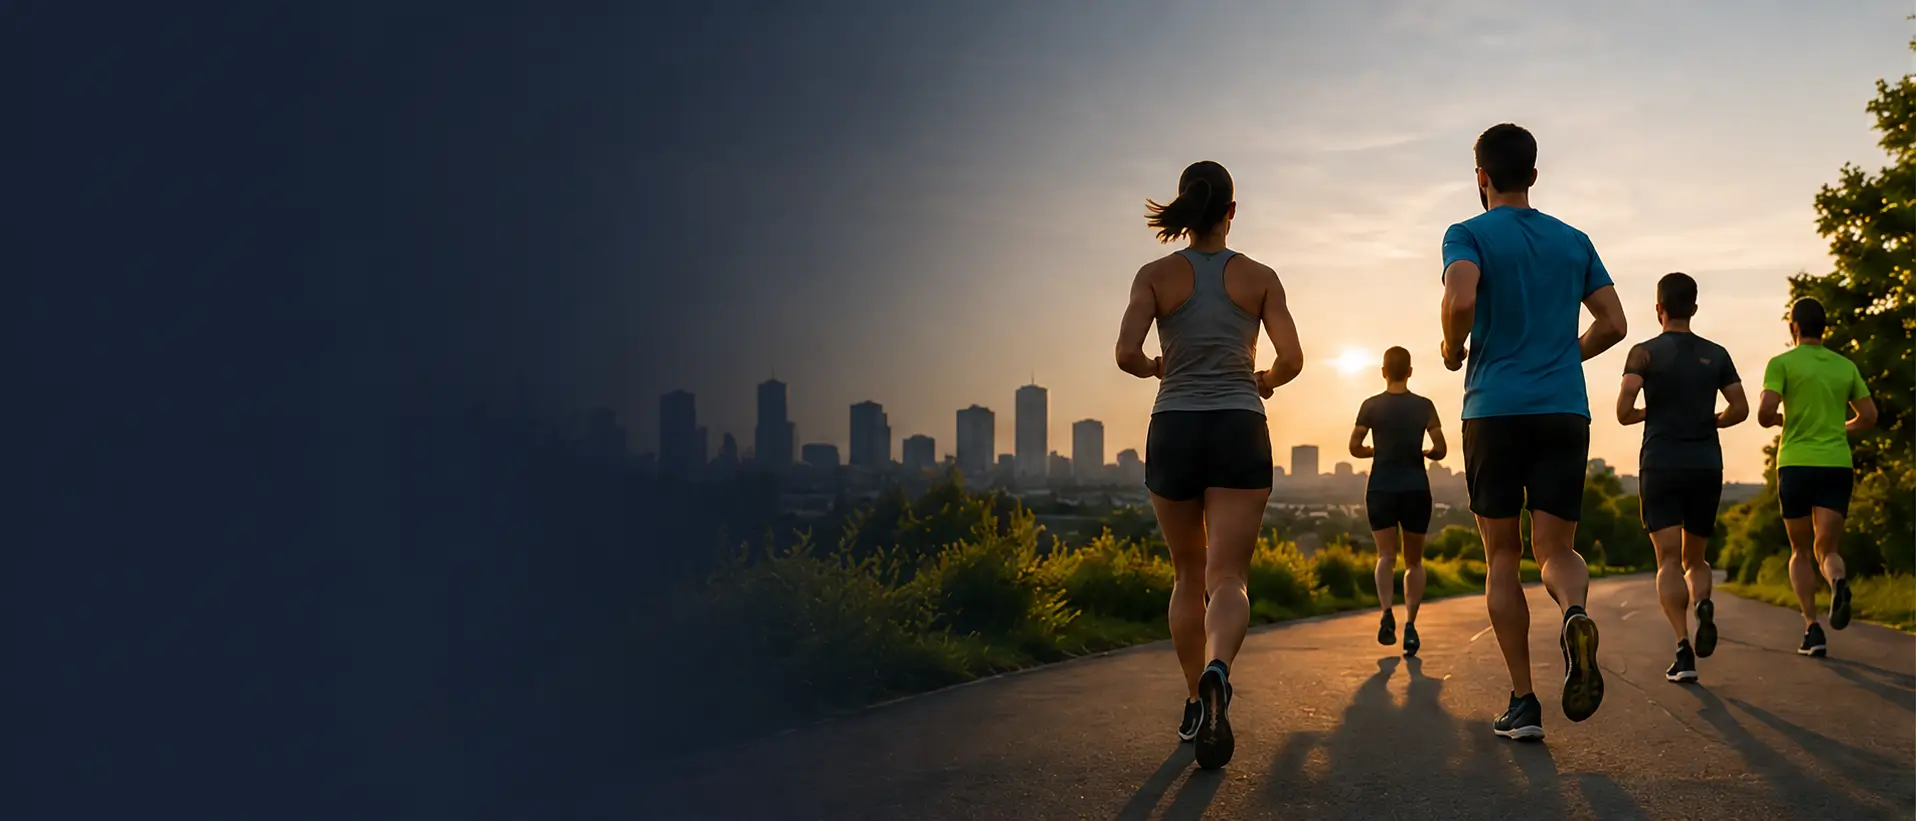
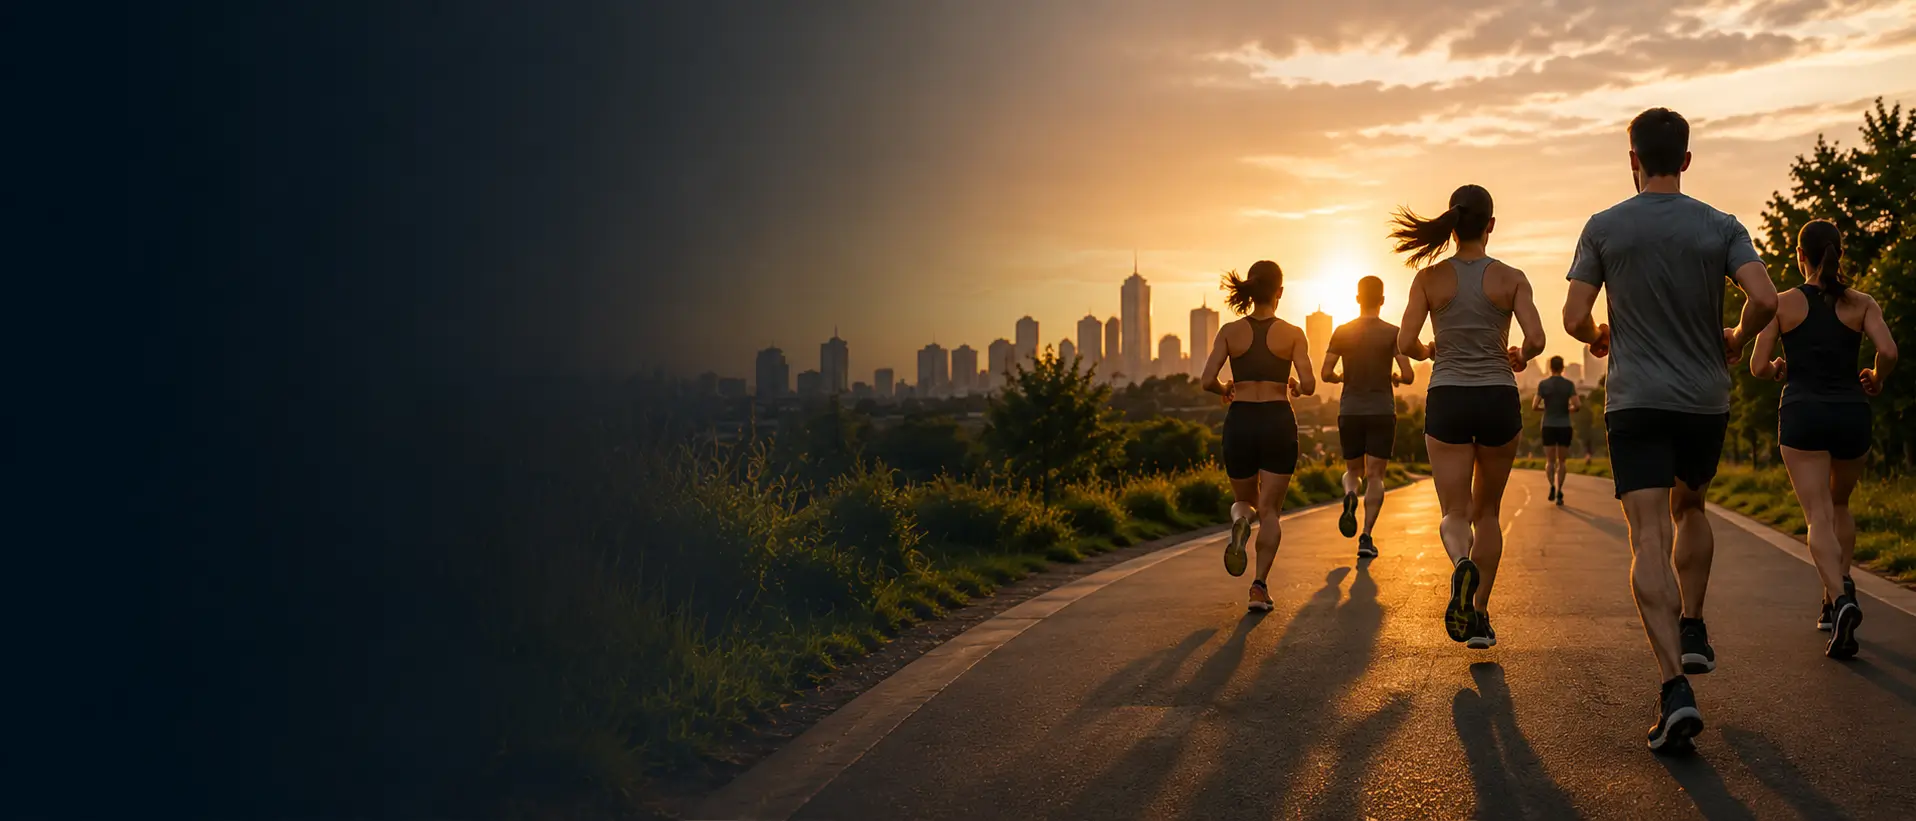
Converted the images to WebP format.

diff --git a/events.html b/events.html
@@ -327,22 +327,22 @@
 
             <div class="row g-3">
                 <figure class="col-12 col-sm-6 col-lg-6 mb-0">
-                    <img src="./images/running-gallery.png" class="img-fluid w-100 gallery-image"
+                    <img src="./images/running-gallery.webp" class="img-fluid w-100 gallery-image"
                         alt="Runners starting a community race" loading="lazy" />
                 </figure>
 
                 <figure class="col-12 col-sm-6 col-lg-6 mb-0">
-                    <img src="./images/running-gallery-1.png" class="img-fluid w-100 gallery-image"
+                    <img src="./images/running-gallery-1.webp" class="img-fluid w-100 gallery-image"
                         alt="Runners taking part in a city race" loading="lazy" />
                 </figure>
 
                 <figure class="col-12 col-sm-6 col-lg-6 mb-0">
-                    <img src="./images/running-gallery-2.png" class="img-fluid w-100 gallery-image"
+                    <img src="./images/running-gallery-2.webp" class="img-fluid w-100 gallery-image"
                         alt="Runners celebrating after finishing a race" loading="lazy" />
                 </figure>
 
                 <figure class="col-12 col-sm-6 col-lg-6 mb-0">
-                    <img src="./images/running-gallery-3.png" class="img-fluid w-100 gallery-image"
+                    <img src="./images/running-gallery-3.webp" class="img-fluid w-100 gallery-image"
                         alt="Runners warming up before an event" loading="lazy" />
                 </figure>
             </div>

diff --git a/css/style.css b/css/style.css
@@ -534,7 +534,7 @@ body {
 
   .hero {
     min-height: 650px;
-    background-image: url("../images/hero-image-mobile.jpg");
+    background-image: url("../images/hero-image-mobile.webp");
     align-items: end;
   }
 